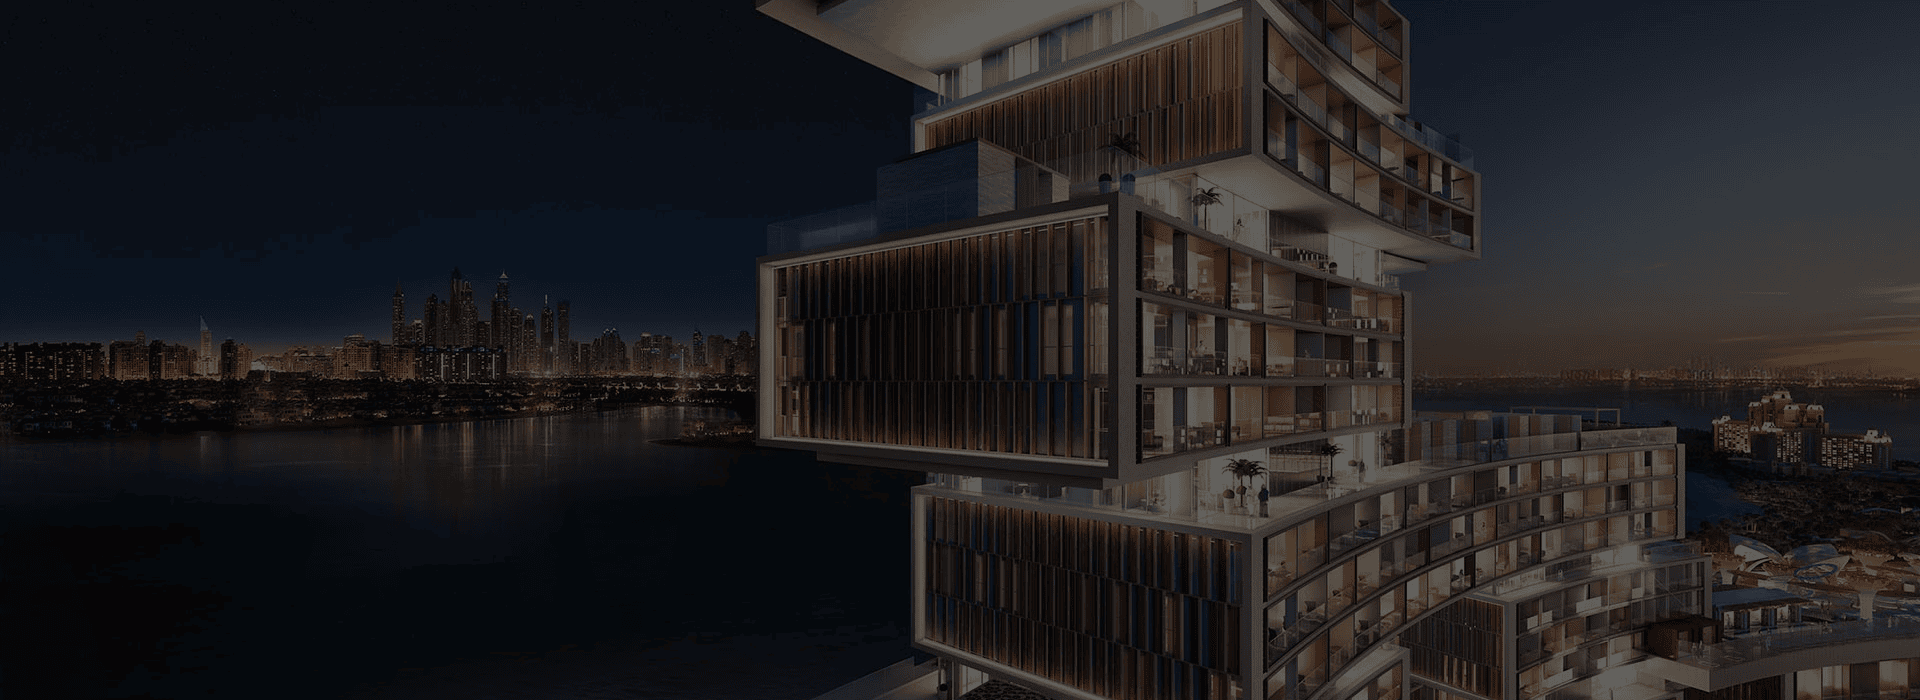
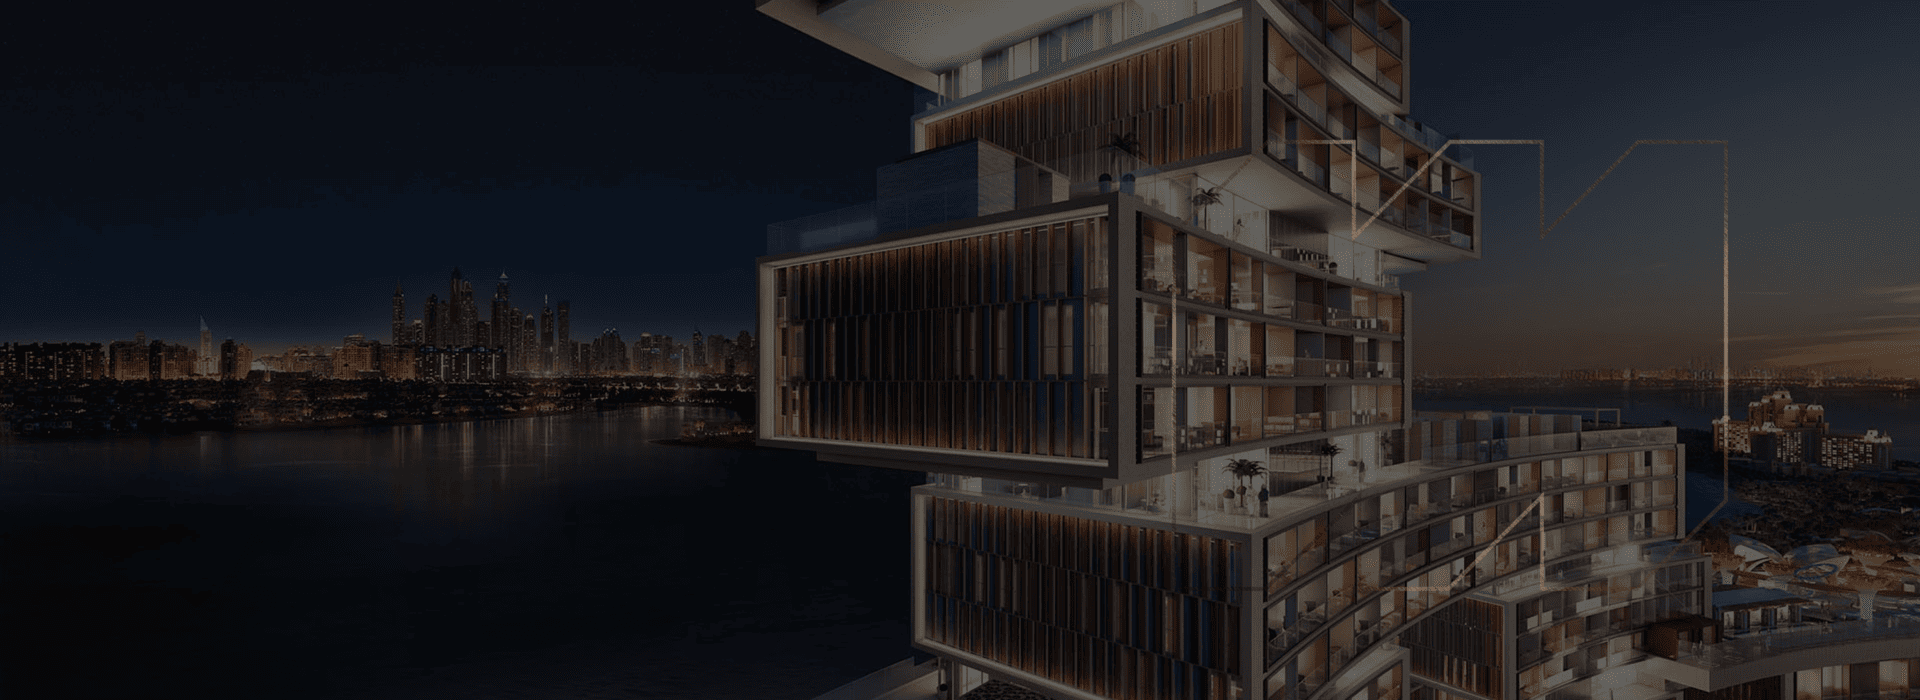
Main slider

diff --git a/resources/sass/main.scss b/resources/sass/main.scss
@@ -113,6 +113,7 @@ p {
   padding: 0 38px;
   border: none;
   border-radius: 28px 0px 28px 0px;
+  background-color: $whitecolor;
   font-family: "manrope-bold";
   font-size: 16px;
   color: $blackcolor;
@@ -158,6 +159,7 @@ p {
   top: 0;
   left: 0;
   width: 100%;
+  z-index: 1;
   .header-top {
     padding: 21px 0;
     .name {
@@ -273,12 +275,25 @@ p {
   }
 
   .main-section {
-    background: url(/resources/img/main-section-bg.png) center no-repeat;
+    position: relative;
+    // background: url(/resources/img/main-section-bg.png) center no-repeat;
     .main-text {
       margin: 0 0 80px 0;
       .text-bold {
         font-family: "manrope-bold";
       }
+    }
+    .become-a-member-btn {
+      padding-left: 18px;
+      padding-right: 18px;
+    }
+    .main-slider-wrapper {
+      position: absolute;
+      top: 0;
+      left: 0;
+      width: 100%;
+      height: 100%;
+      z-index: -1;
     }
   }
 

diff --git a/resources/js/main.js b/resources/js/main.js
@@ -22,6 +22,20 @@ window.setTimeout(function () {
 }, 1100);
 
 
+// Main slider section
+const mainSliderWrapper = document.querySelector('.main-slider-wrapper')
+
+if (mainSliderWrapper) {
+  const mainSlider = new Swiper('.main-slider', {
+    effect: "fade",
+    loop: true,
+    autoplay: {
+      delay: 5000,
+    },
+  });
+}
+
+
 // Input mask
 function inputPhoneMask() {
   const elementPhone = document.querySelectorAll('.js-input-phone-mask');
@@ -43,17 +57,12 @@ const sliderSection = document.querySelector('.slider-section')
 
 if (sliderSection) {
   const snSlider = new Swiper('.sn-slider', {
-    // modules: [Navigation, Pagination],
     slidesPerView: 3,
     loop: true,
-    // centeredSlides: true,
     navigation: {
       nextEl: '.swiper-button-next',
       prevEl: '.swiper-button-prev',
     },
-    // pagination: {
-    //   el: ".swiper-pagination",
-    // },
   });
 }
 

diff --git a/resources/views/home.blade.php b/resources/views/home.blade.php
@@ -16,7 +16,22 @@
       <div class="main-text">Лучшие зарубежные проекты для релокации и инвестиций, крупнейшая выставка<br>недвижимости в <span class="text-bold">Европе и Азии</span></div>
       <div class="action-btns">
         <button class="main-accent-btn primary-btn">ПОЛУЧИТЬ ПРИГЛАШЕНИЕ</button>
-        <button class="become-a-member-btn secondary-btn">СТАТЬ УЧАСТНИКОМ</button>
+        <a href="/for-participants" class="become-a-member-btn secondary-btn">СТАТЬ УЧАСТНИКОМ</a>
+      </div>
+    </div>
+    <div class="main-slider-wrapper">
+      <div class="main-slider swiper">
+        <div class="swiper-wrapper">
+          <div class="sn-slider-item swiper-slide">
+            <img src="/img/main-section-bg.png" alt="">
+          </div>
+          <div class="sn-slider-item swiper-slide">
+            <img src="/img/for-participants-bg.png" alt="">
+          </div>
+          <div class="sn-slider-item swiper-slide">
+            <img src="/img/poster-bg.png" alt="">
+          </div>
+        </div>
       </div>
     </div>
   </div>
